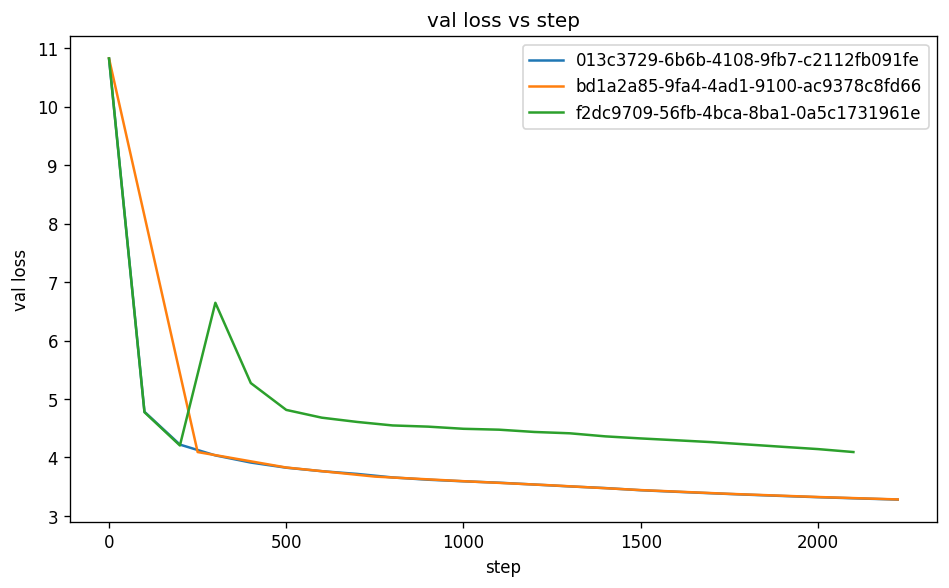
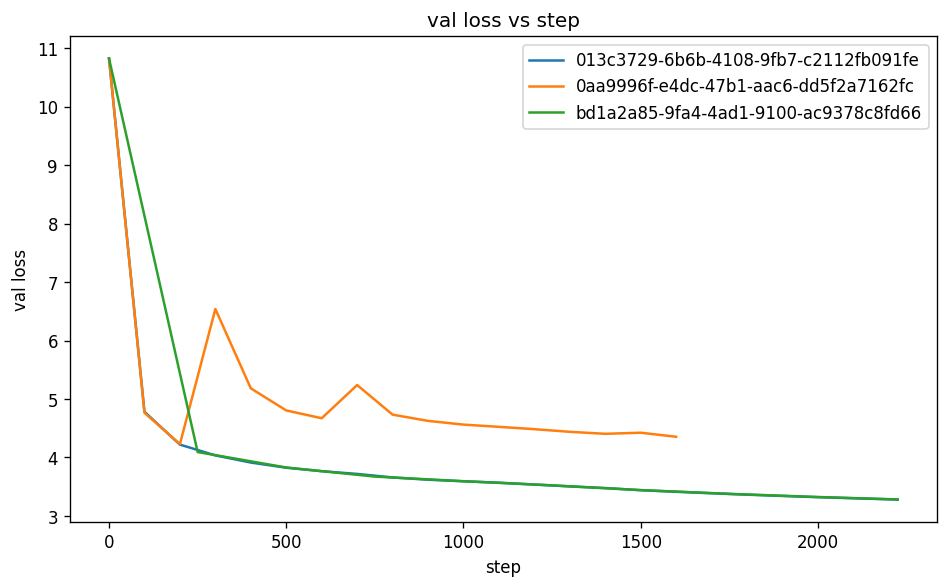
dump

diff --git a/popo.py b/popo.py
@@ -1343,7 +1343,8 @@ optimizer1 = DistAdam(
     eps=1e-8,
     weight_decay=0.0,
 )
-optimizer2 = NorMuon(hidden_matrix_params + gate_params, lr=0.03, momentum=0.95, beta2=0.95, weight_decay=1.2)
+# optimizer2 = NorMuon(hidden_matrix_params + gate_params, lr=0.03, momentum=0.95, beta2=0.95, weight_decay=1.2)
+optimizer2 = NorMuon(hidden_matrix_params + gate_params, lr=0.10, momentum=0.95, beta2=0.95, weight_decay=1.2)
 # optimizer2 = NorMuon(hidden_matrix_params + gate_params, lr=0.1, momentum=0.95, beta2=0.95, weight_decay=1.2)
 optimizers = [optimizer1, optimizer2]
 for opt in optimizers:
@@ -1450,7 +1451,8 @@ def step_optimizers(step: int, optimizers, model):
 
     # on even steps, only step Muon params
     # on odd steps, step all params
-    if step%2==0:
+    # if step%2==0:
+    if step%8==0:
         optimizers[1].step()
         optimizers[1].zero_grad(set_to_none=True)
     else:
